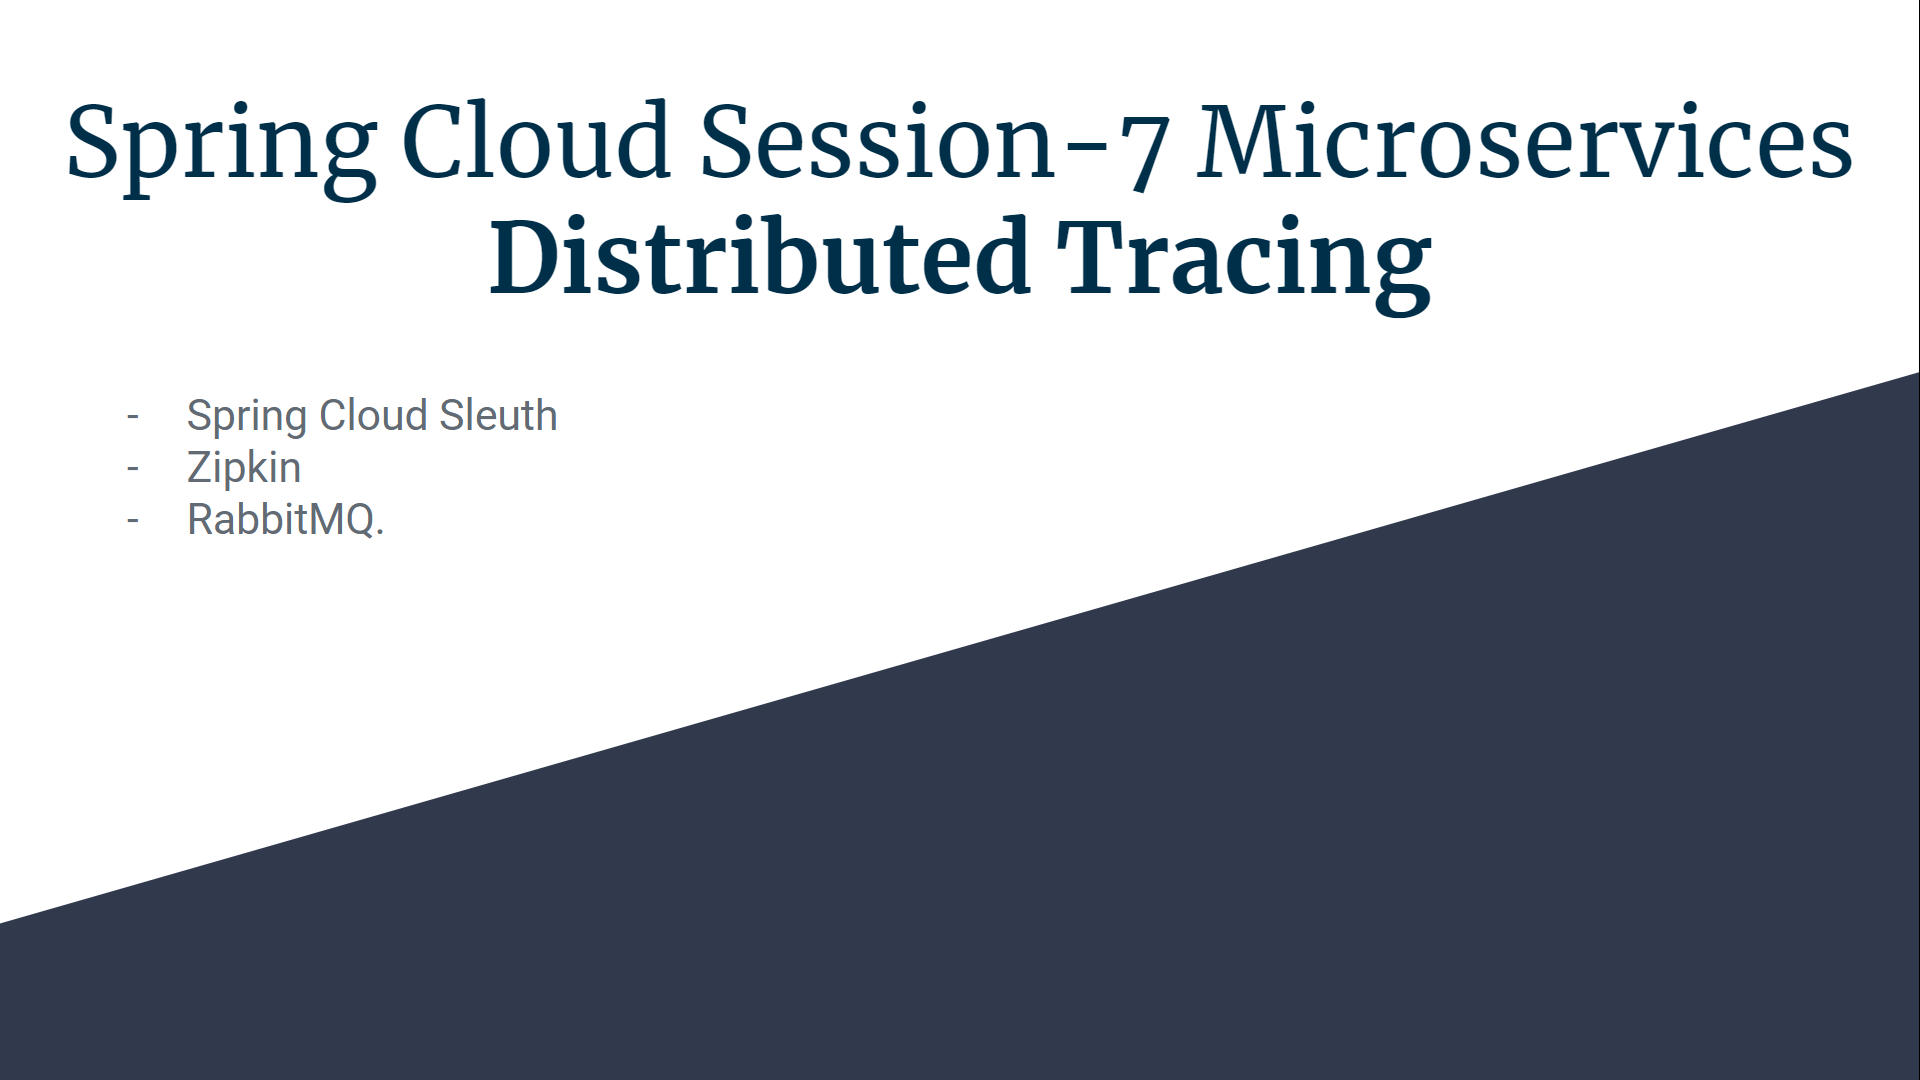
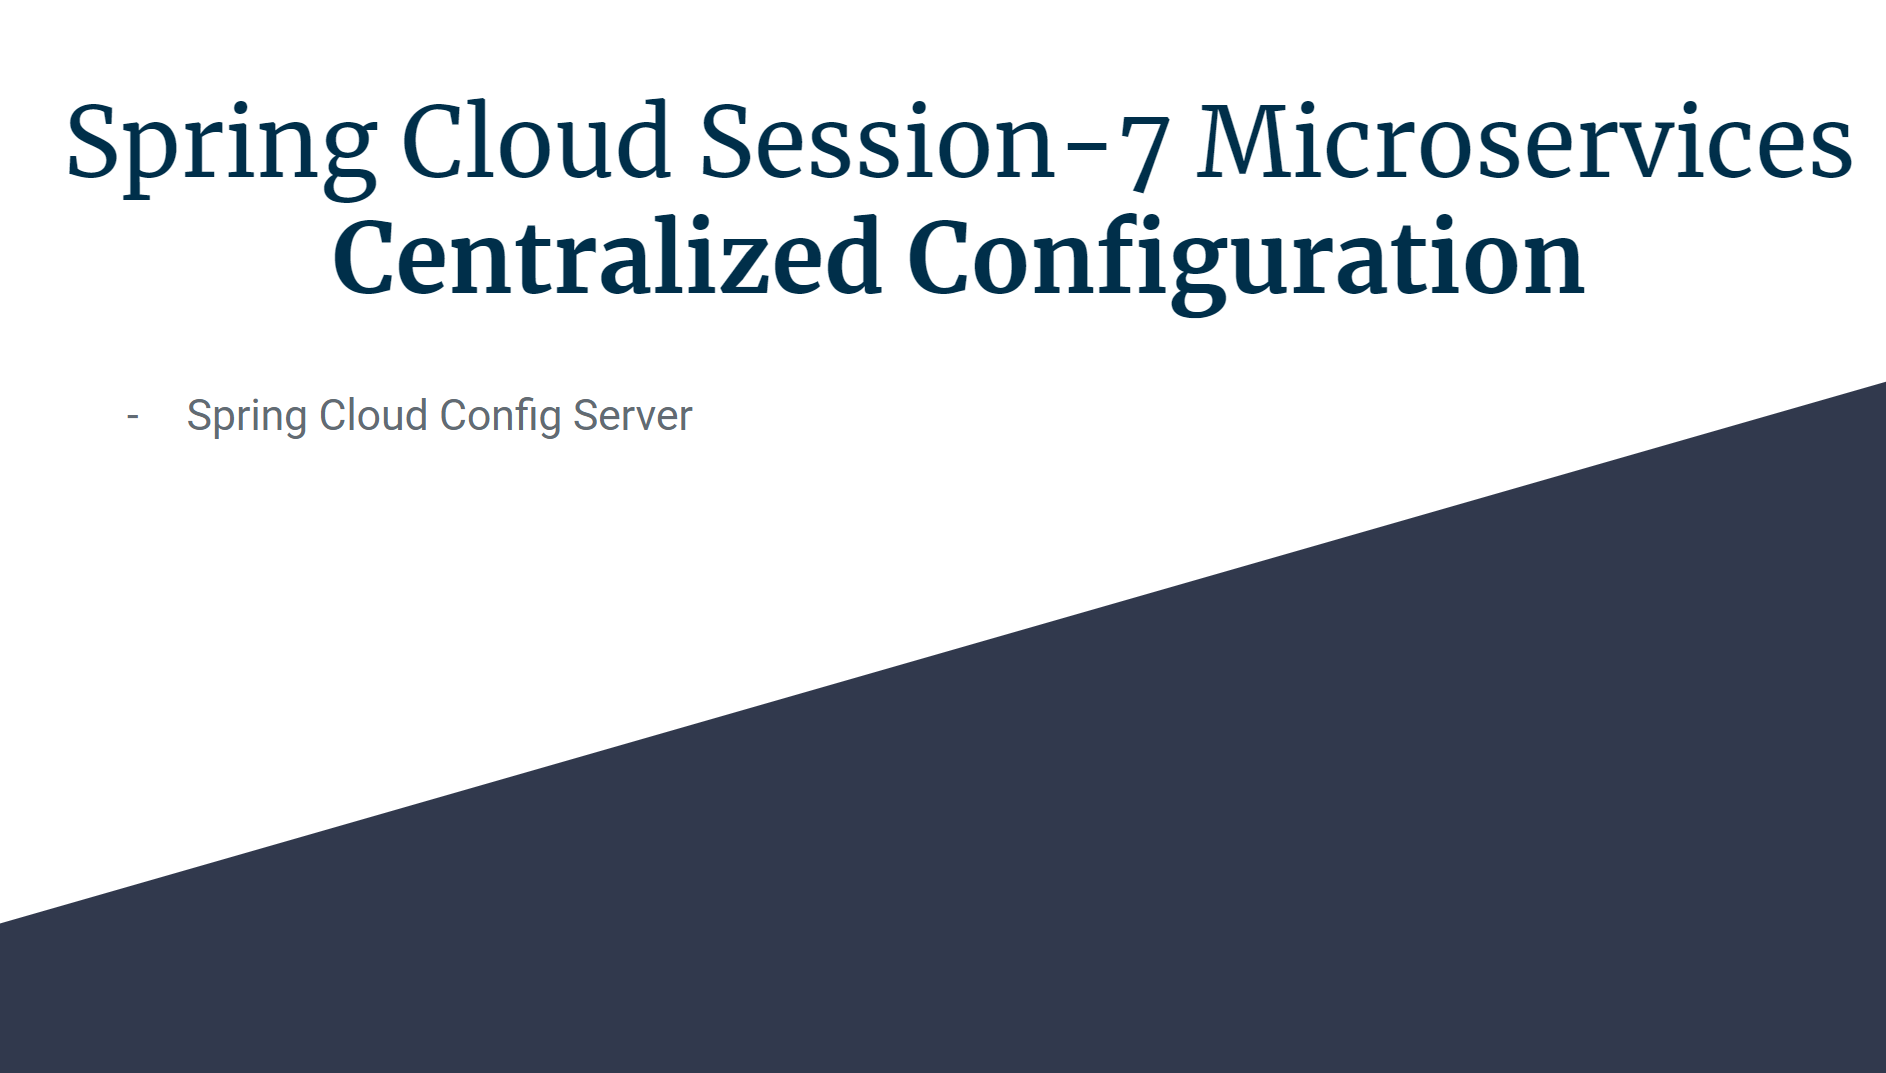
updated title and readme

diff --git a/README.md b/README.md
@@ -12,8 +12,8 @@ to read configurations from configuration server microservice (config-server).
 # Source Code 
 ``` git clone https://github.com/balajich/spring-cloud-session-7-microservices-centralized-configuration.git``` 
 # Video
-[![Spring Cloud Session-7 Centralized Configuration](https://img.youtube.com/vi/8CV8PDX8Kuc/0.jpg)](https://www.youtube.com/watch?v=8CV8PDX8Kuc)
-- https://youtu.be/8CV8PDX8Kuc
+[![Spring Cloud Session-7 Centralized Configuration](https://img.youtube.com/vi/9hdTfz7NOqs/0.jpg)](https://www.youtube.com/watch?v=9hdTfz7NOqs)
+- https://youtu.be/9hdTfz7NOqs
 # Architecture
 ![architecture](architecture.png "architecture")
 # Prerequisite
